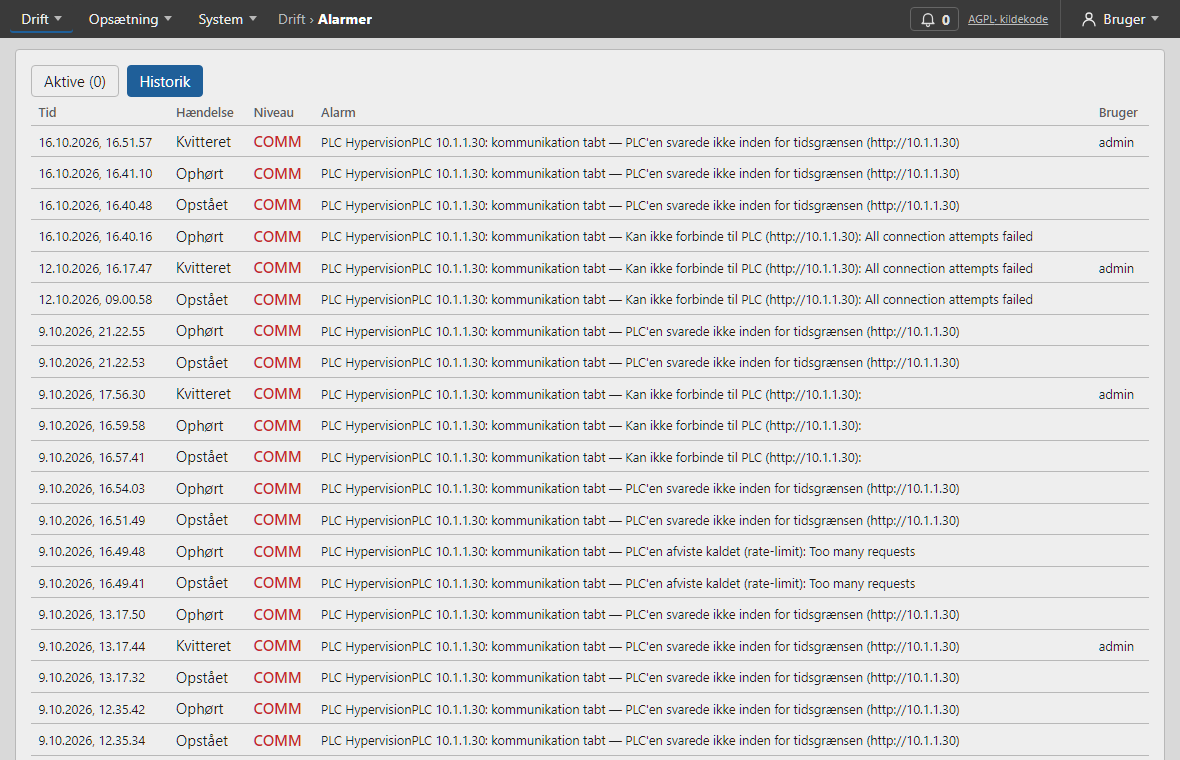
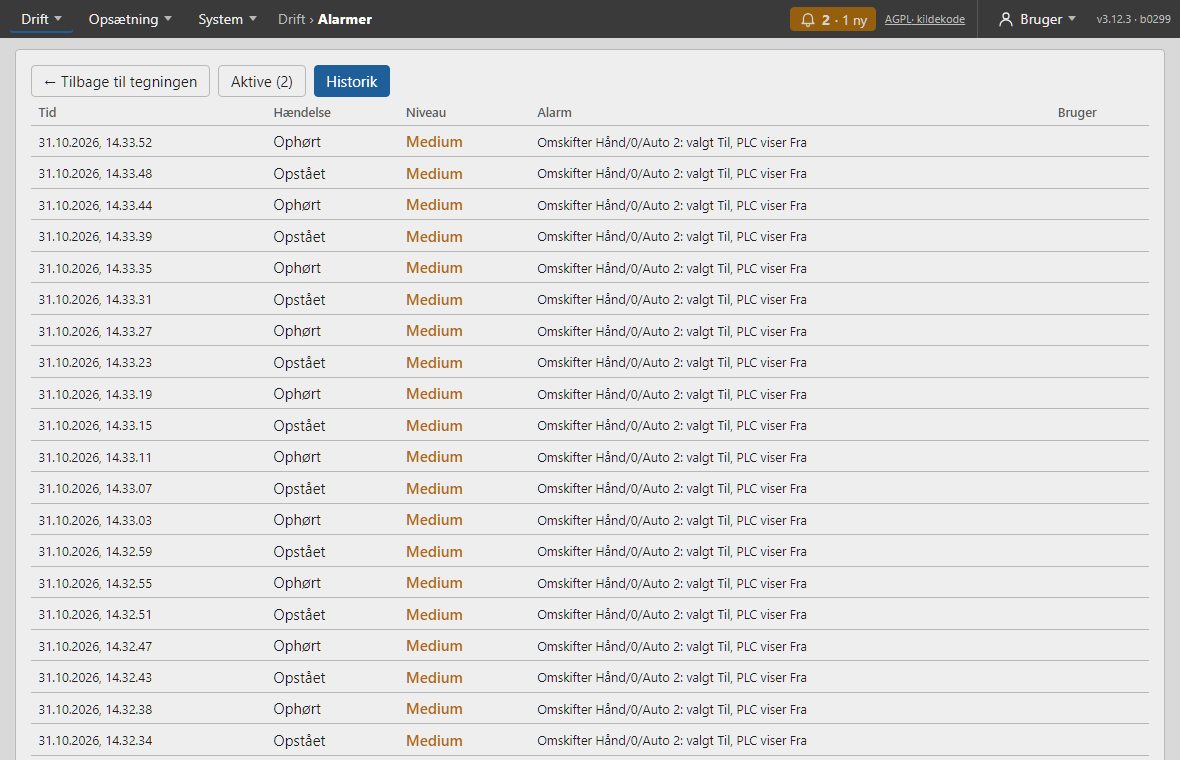
v3.12.4-b0300: nye skærmbilleder af Alarmer og Trends (Tank Temperatur total, 7 dage) i manual og README

diff --git a/CHANGELOG.md b/CHANGELOG.md
@@ -4,6 +4,12 @@ Nyeste øverst. Format: `## [version build NNNN] — YYYY-MM-DD — beskrivelse`
 
 ---
 
+## [3.12.4 build 0300] — 2026-10-31 — Nye skærmbilleder af Alarmer og Trends
+
+- `frontend/public/manual/alarmer.png`, `alarmer-historik.png`, `trends.png`: taget om fra testserveren 10.1.1.31 — Trends med visningen *Tank Temperatur total* (8 følere) over 7 dage.
+- `frontend/tools/manual-screenshots.mjs`: Trends-billedet vælger visningen med tankens temperaturer og *7 dage* (venter på, at visningerne er hentet).
+- Manual: billedtekster til de nye billeder; *30 dage* med i listen over tidsrum.
+
 ## [3.12.3 build 0299] — 2026-10-31 — Manualen omlagt i flere kapitler og afsnit
 
 - `frontend/src/manual/`: *Tegninger og Tegn* delt i **Tegninger**, **Tegn – tegne-editoren** og **Forbindelser (rør og ledninger)**; *Alarmer* og *Trends* flyttet ud af *Drift* til egne kapitler — alle med egne `##`-afsnit i indholdsfortegnelsen. Rettet forældet tekst (symbolbiblioteket står til højre, tilslutningspunkter fra stregerne, linjen over tegnefladen) og nyt om skillelinjer, Begge/Middel/Rå, Udfyld huller, låste grafer, Nulstil visning, forstør/fjern graf og animation på forbindelser. Kapitlerne er omnummereret (adresserne er uændrede).

diff --git a/frontend/src/manual/04-trends.md b/frontend/src/manual/04-trends.md
@@ -1,6 +1,6 @@
 # Trends
 
-![Trends: valgte tags, tidsrum og kurver](/manual/trends.png)
+![Trends: visningen "Tank Temperatur total" med tankens 8 temperaturfølere over 7 dage — navnene står ved højre kant](/manual/trends.png)
 
 **Trends** viser kurver over værdier gennem tiden. Kun tags, hvor **historik** er slået til, har kurver (slås til under **Tags**, eller direkte på Trends-siden med **Begynd at gemme historik**).
 
@@ -16,7 +16,7 @@ Viewer, operatør og driftpanel kan ikke søge efter eller vælge tags frit — 
 
 ## Tidsrum
 
-Vælg **15 min, 1 time, 8 timer, 24 timer, 7 dage**, eller **Vælg periode** for et selvvalgt interval (*Fra* og *Til*). Kurverne **opdateres live**.
+Vælg **15 min, 1 time, 8 timer, 24 timer, 7 dage, 30 dage**, eller **Vælg periode** for et selvvalgt interval (*Fra* og *Til*). Kurverne **opdateres live**.
 
 ## Læs kurverne
 

diff --git a/frontend/src/manual/03-alarmer.md b/frontend/src/manual/03-alarmer.md
@@ -1,6 +1,6 @@
 # Alarmer
 
-![Alarmer — fanen Aktive (her uden aktive alarmer)](/manual/alarmer.png)
+![Alarmer — fanen Aktive med prioritet, tilstand (aktiv/ophørt, kvitteret af hvem) og knapperne Kvittér og Kvittér alle](/manual/alarmer.png)
 
 Alarmklokken i topbjælken åbner siden **Alarmer**. Et **driftpanel** (uden topbjælke) åbner den med knappen *Gå til Alarmer* i tegningen og kan kvittere derfra.
 
@@ -14,7 +14,7 @@ Tryk **Kvittér** på en alarm for at sige, at du har set den, eller **Kvittér 
 
 ## Historik
 
-![Alarmer — fanen Historik med tidligere alarmer og kvitteringer](/manual/alarmer-historik.png)
+![Alarmer — fanen Historik: hvornår hver alarm opstod, ophørte og blev kvitteret](/manual/alarmer-historik.png)
 
 Fanen **Historik** viser alle tidligere alarmer med tidspunkter for **udløsning**, **kvittering** (og hvem) og **ophør**.
 

diff --git a/RELEASE_NOTES.md b/RELEASE_NOTES.md
@@ -2,6 +2,10 @@
 
 ---
 
+## v3.12.4 — 2026-10-31 — Nye billeder i manualen
+
+- Manualens billeder af **Alarmer** og **Trends** er taget om, så de viser siderne, som de ser ud nu. Trends viser tankens 8 temperaturer over 7 dage.
+
 ## v3.12.3 — 2026-10-31 — Ny opdeling af manualen
 
 - Manualen er delt op i flere kapitler med egne afsnit: **Alarmer** og **Trends** har fået egne kapitler, og *Tegninger og Tegn* er delt i **Tegninger**, **Tegn – tegne-editoren** og **Forbindelser (rør og ledninger)**. Afsnittene står i indholdsfortegnelsen til venstre.
